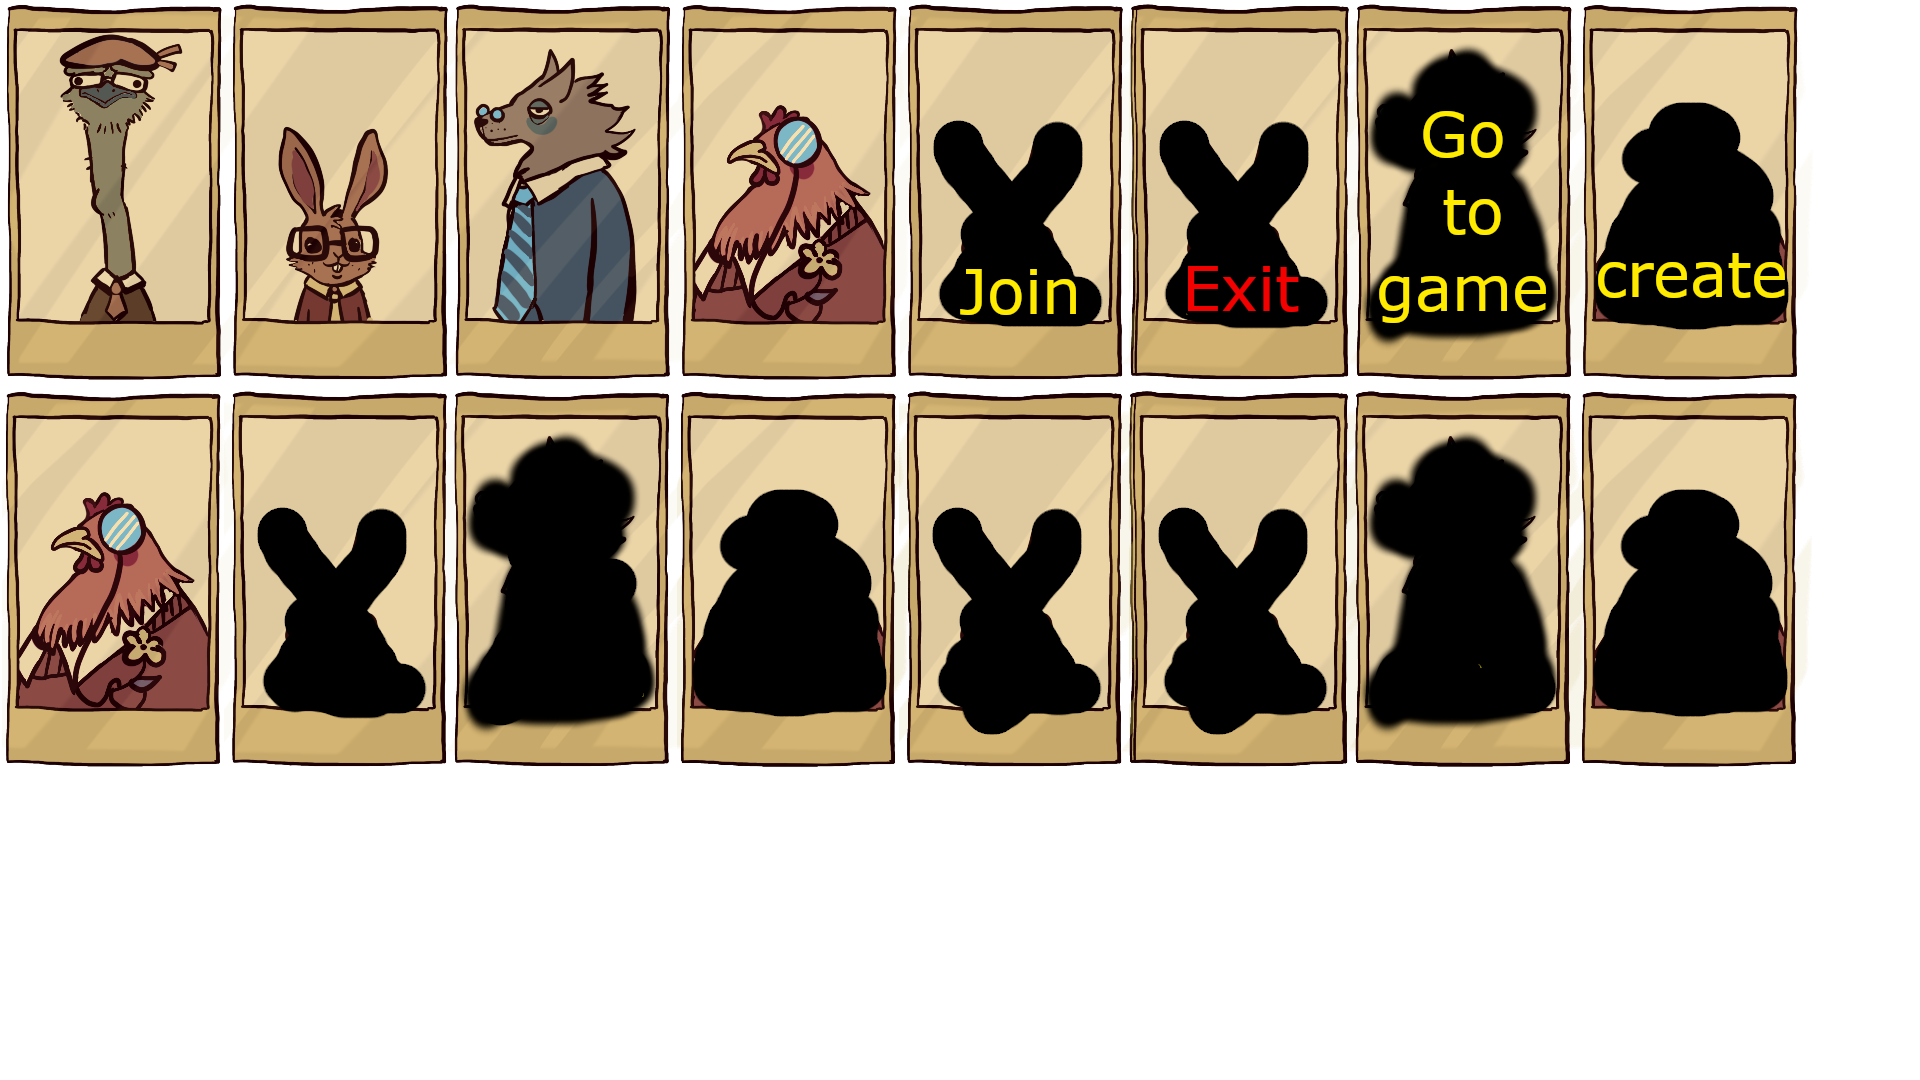
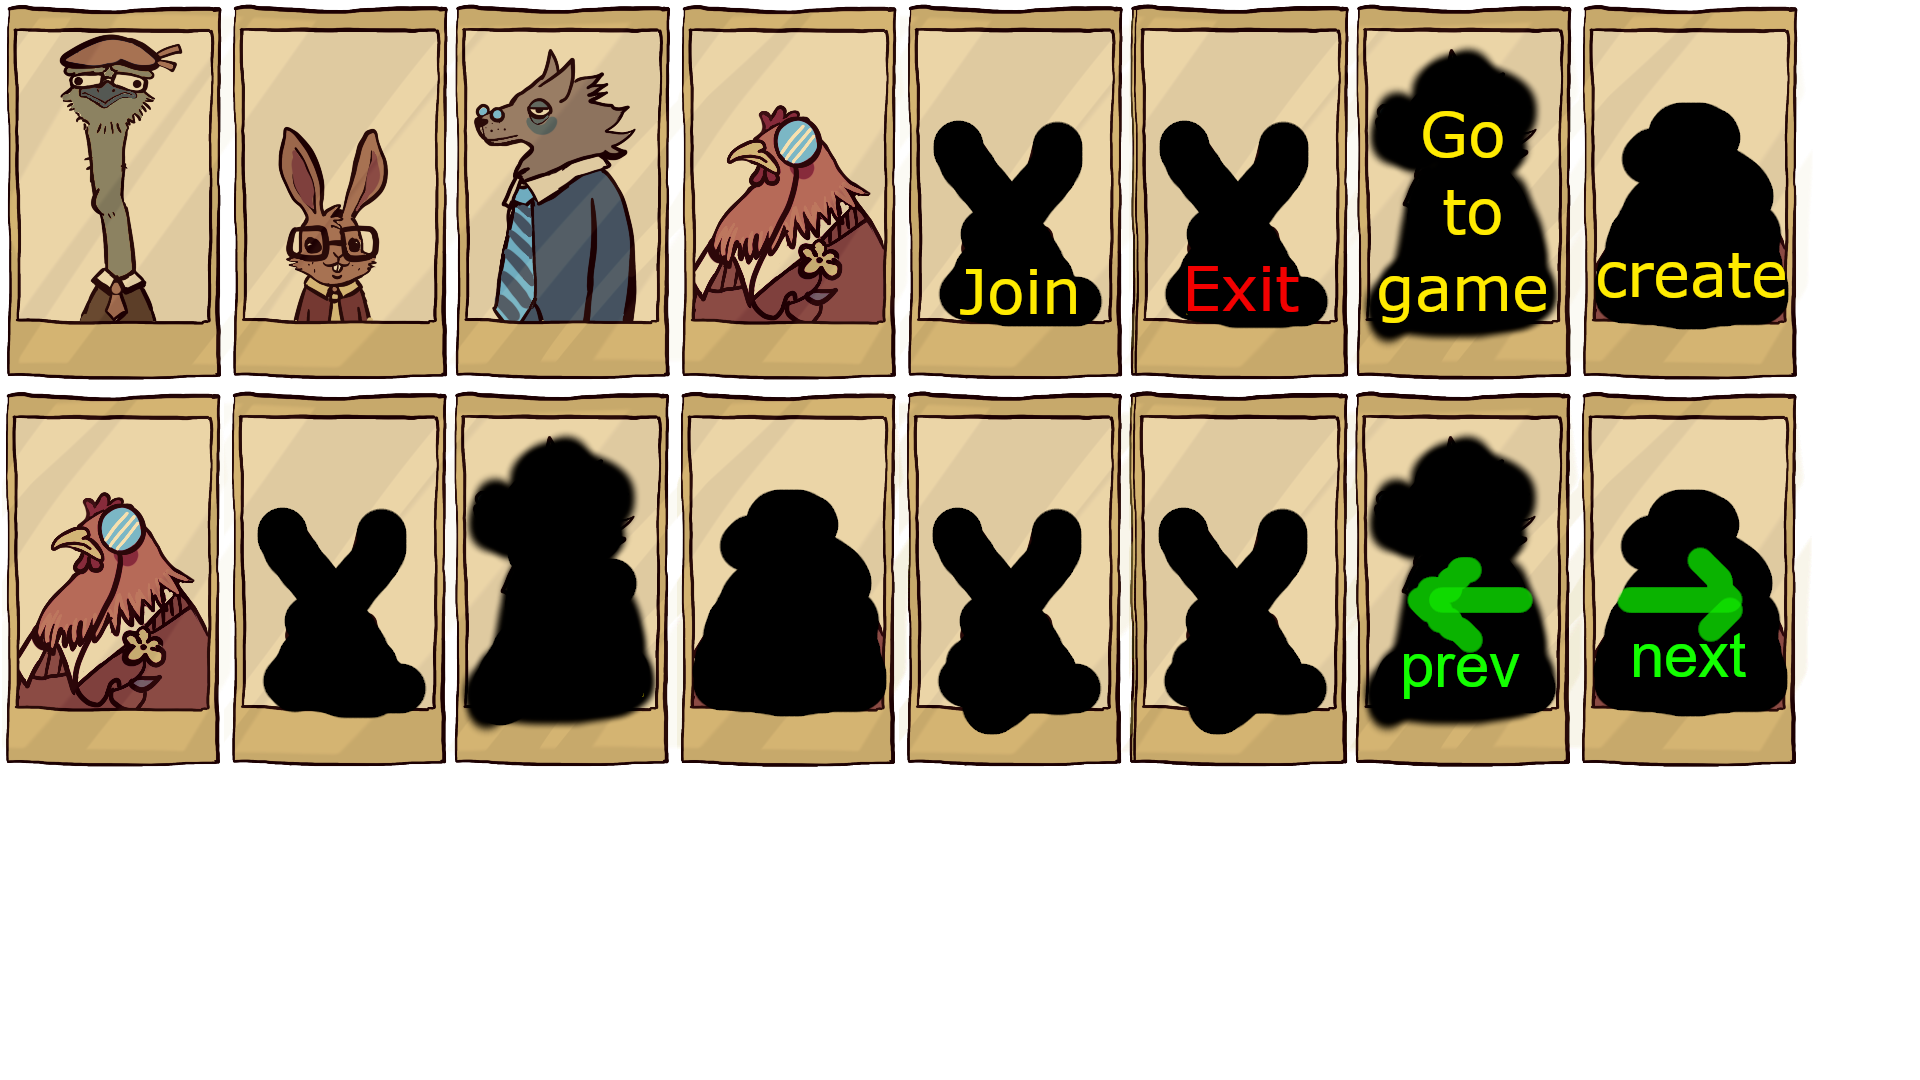
game list pagination and sorting game creation

Changed region(s): [[0.7188, 0.5194, 0.8125, 0.6417], [0.8438, 0.4889, 0.9062, 0.6417]]

diff --git a/src/main.js b/src/main.js
@@ -1181,7 +1181,9 @@
 		"join": [-899, 0],
 		"exit": [-1124, 0],
 		"enter": [-1349, 0],
-		"create": [-1600, 0],
+		"create": [-1570, 0],
+		"prev": [-1349, 695],
+		"next": [-1570, 695],
 		//"blob": [2550, 2580],
 		"2": [1920, 2580],
 		"3": [1240, 2580],
@@ -1215,13 +1217,13 @@
 		}
 		avatarSprites[spriteUUID].x = newX;
 		avatarSprites[spriteUUID].y = newY;
+		avatarSprites[spriteUUID].removeAllListeners('pointerdown');
 		if(onClickAction) {
 			console.log('sprites '+spriteUUID+' created with on click action');
 			avatarSprites[spriteUUID].interactive = true;
 			avatarSprites[spriteUUID].on('pointerdown', onClickAction);
 		} else {
 			avatarSprites[spriteUUID].interactive = false;
-			avatarSprites[spriteUUID].on('pointerdown', () => {});
 		}
 		
 		if(!doNotBringToFront && avatarSprites[spriteUUID].parent) {
@@ -1721,25 +1723,38 @@
 					gameLobbyIds.push(oneGameInfo.id);
 				}
 				gameLobbies[oneGameInfo.id].push(oneGameInfo);
-				oneGameInfo.lobbyIndex = gameLobbyIds.indexOf(oneGameInfo.id);
+				if(oneGameInfo.player == gameState.playerid) {
+					array_move(gameLobbyIds, gameLobbyIds.indexOf(oneGameInfo.id), 0); // put first the games where i am present
+				}
 			});
 			
-			var idxStart = gameIdStart ? gameIdStart : 0 ;
+			var idxStart = gameIdStart || 0==gameIdStart ? gameIdStart : gameState.lobbyFirstGameId ? gameState.lobbyFirstGameId : 0  ;
+			if(idxStart >= gameLobbyIds.length || idxStart < 0) {
+				idxStart = 0;
+			}
+			gameState.lobbyFirstGameId = idxStart;
 			/*if(gameState.lobbyFirstGameId && gameLobbyIds.includes(gameState.lobbyFirstGameId)) {
 				idxStart = gameLobbyIds.indexOf(gameState.lobbyFirstGameId);
 			}*/
 			var idxEnd = idxStart +7;
 			console.log('showing lobbies '+idxStart+' to '+idxEnd);
 			// show create button
-			//positionAvatar('create', 1000, 15, null, null, 
-			positionAvatar('create', 1000, 15, null, null, 
+			positionAvatar('create', 900, 15, 1, 1, 
 			() => {
 				console.log('clicked create game ');
-				/*newGame(gameState.playername,gameState.playerid, () => {
-					refreshLobbies(idxStart);
-				});*/
+				newGame(gameState.playername,gameState.playerid, () => {
+					refreshLobbies(0);
+				});
+			});
+			positionAvatar('next', 900, 315, 1, 2, 
+			() => {
+				console.log('clicked next game page');
 				refreshLobbies(idxEnd+1);
-				//gameState.gameId = pleaseJoinGameId;
+			});
+			positionAvatar('prev', 900, 615, 1, 3, 
+			() => {
+				console.log('clicked prev game page');
+				refreshLobbies(idxStart-8);
 			});
 			gameLobbyIds.forEach((gameLobbyId) => {
 				var idx = gameLobbyIds.indexOf(gameLobbyId);
@@ -1750,6 +1765,15 @@
 			});
 		});
 	}
+	function array_move(arr, old_index, new_index) {
+		if (new_index >= arr.length) {
+			var k = new_index - arr.length + 1;
+			while (k--) {
+				arr.push(undefined);
+			}
+		}
+		arr.splice(new_index, 0, arr.splice(old_index, 1)[0]);
+	};
 
     function rendergameRecap(gameRecapJSON) {
         result = "not an array "+(gameRecapJSON && typeof(gameRecapJSON.data));
